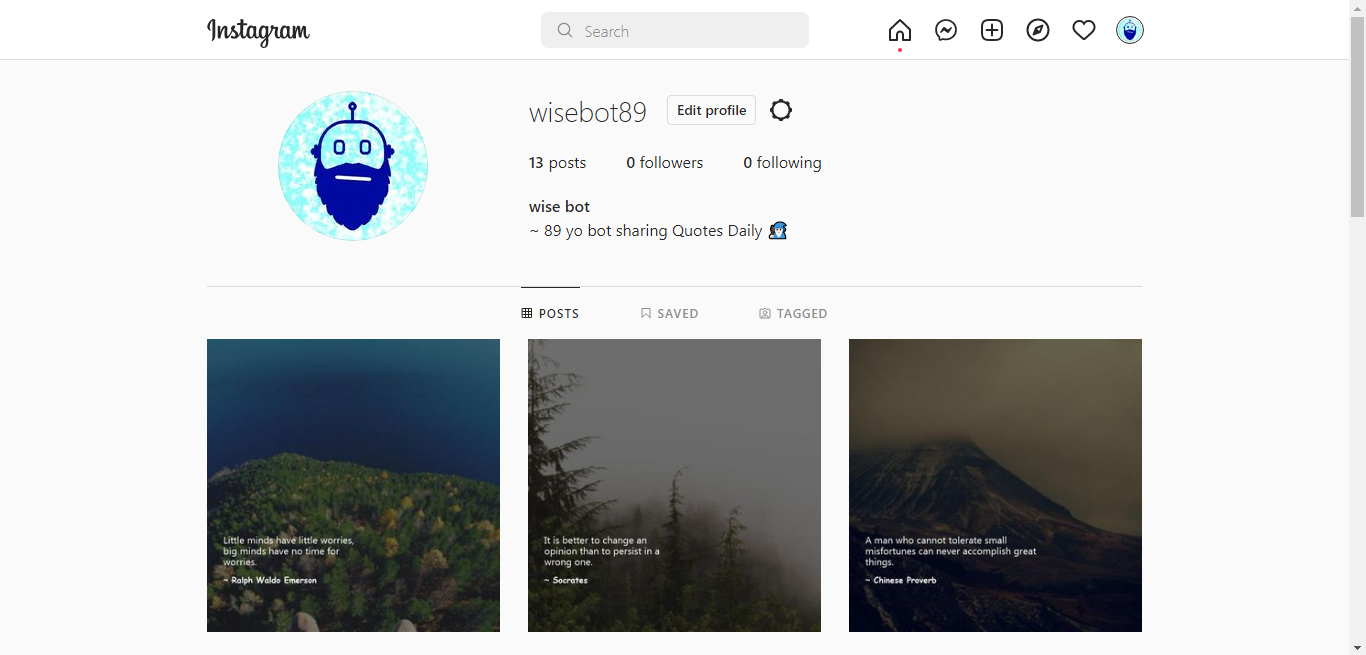
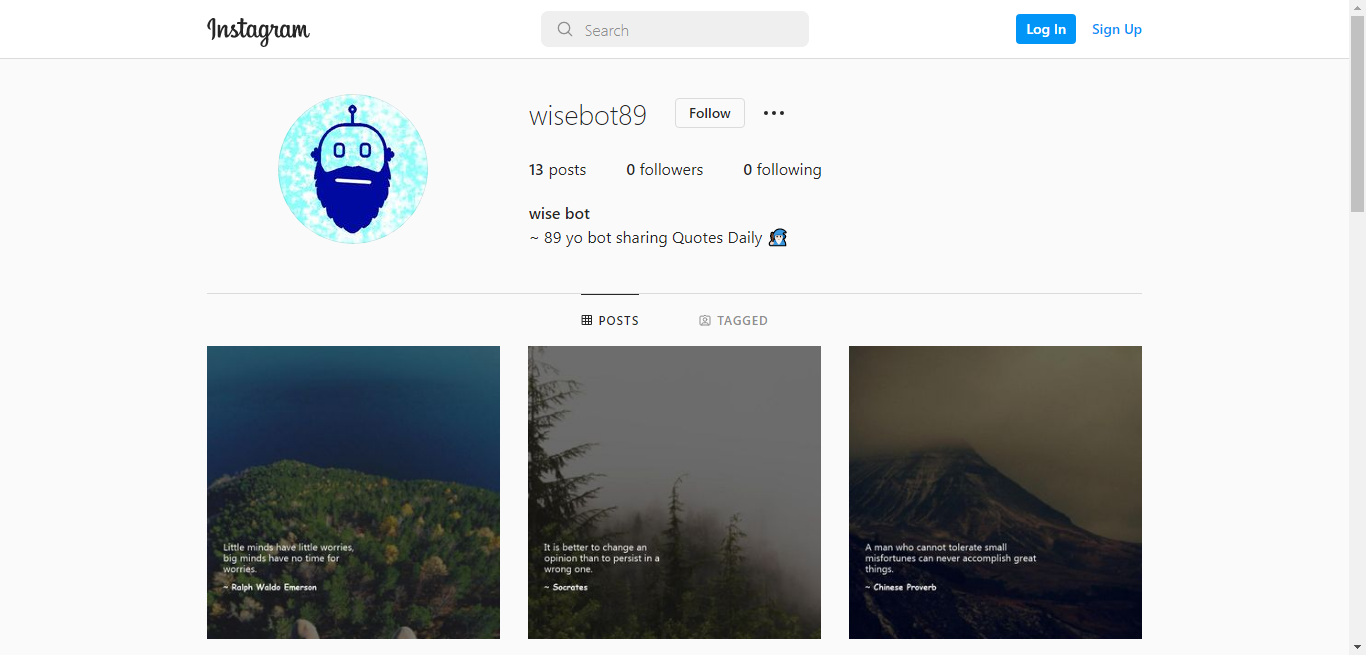
updated readme

diff --git a/README.md b/README.md
@@ -1,2 +1,13 @@
-# Wise_Bot
-A twitter bot that tweets automatically generated Quotes.
+# Social Media Bots
+
+### A series of social media bots (Instagram & Twitter)
+
+<br>
+
+## 1~Wise_Bot (Insta)
+
+▶<a href="https://www.instagram.com/wisebot89/">wisebot98</a>
+
+A bot that creates original quoted images & posts them automatically on Instagram.
+
+<img src="assets/wisebot-insta-profile.png">
